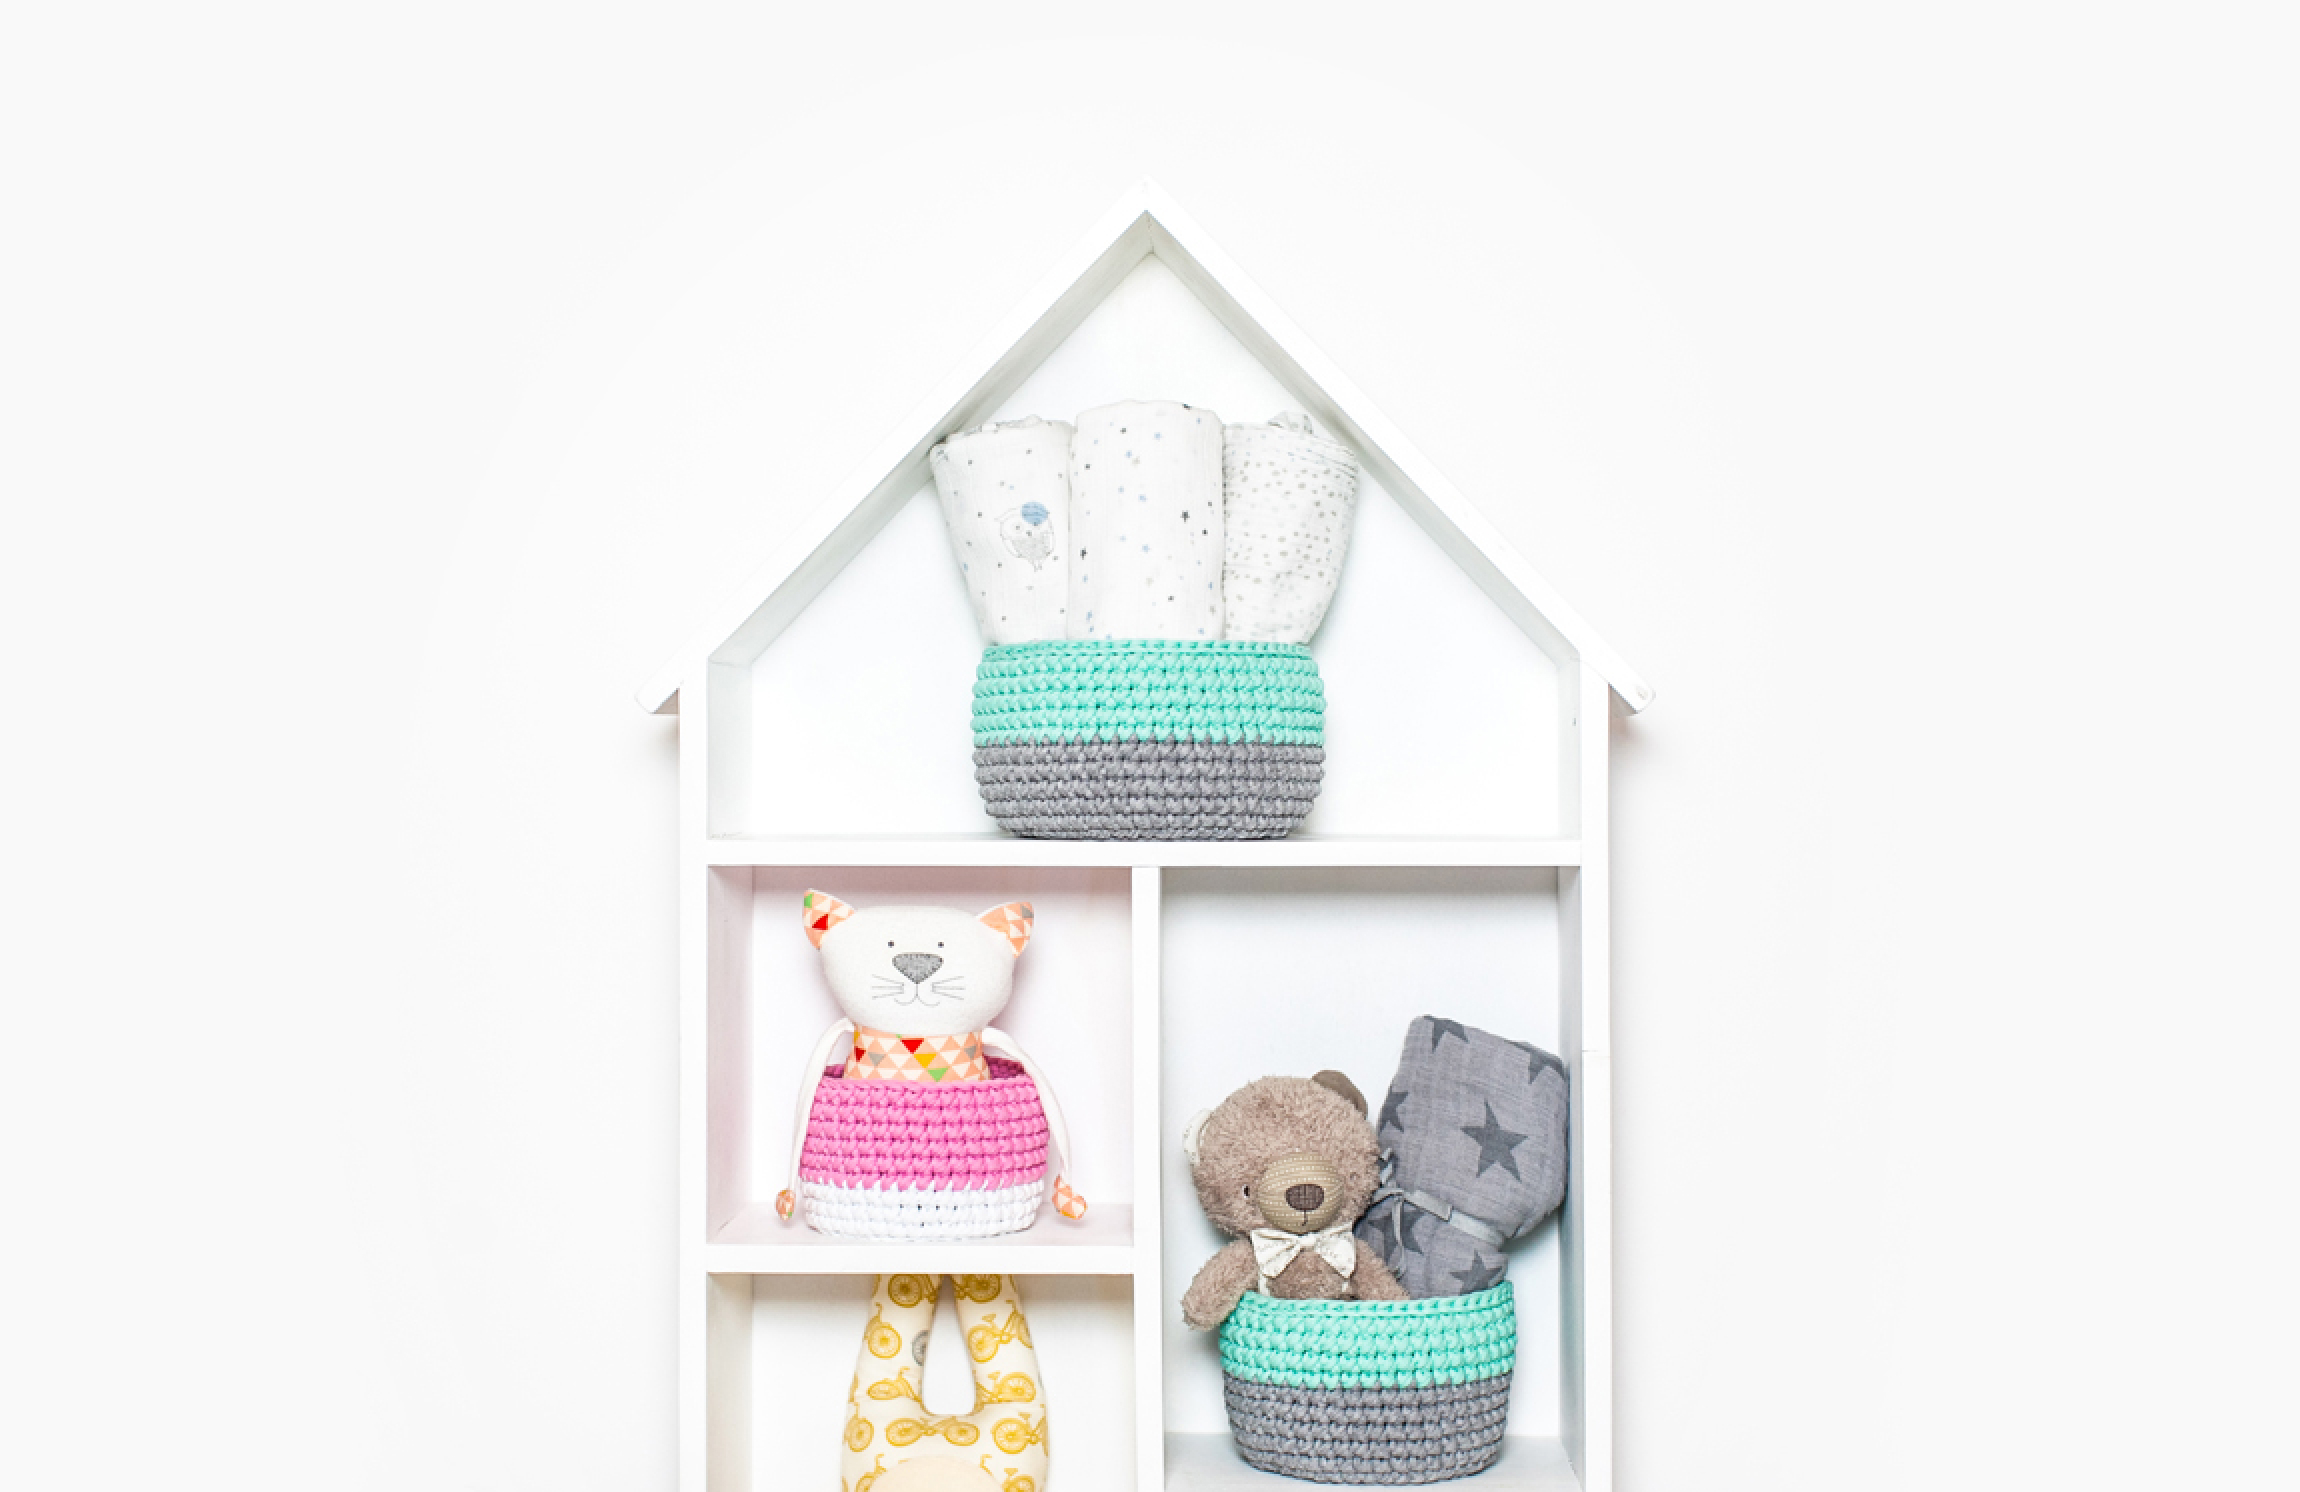
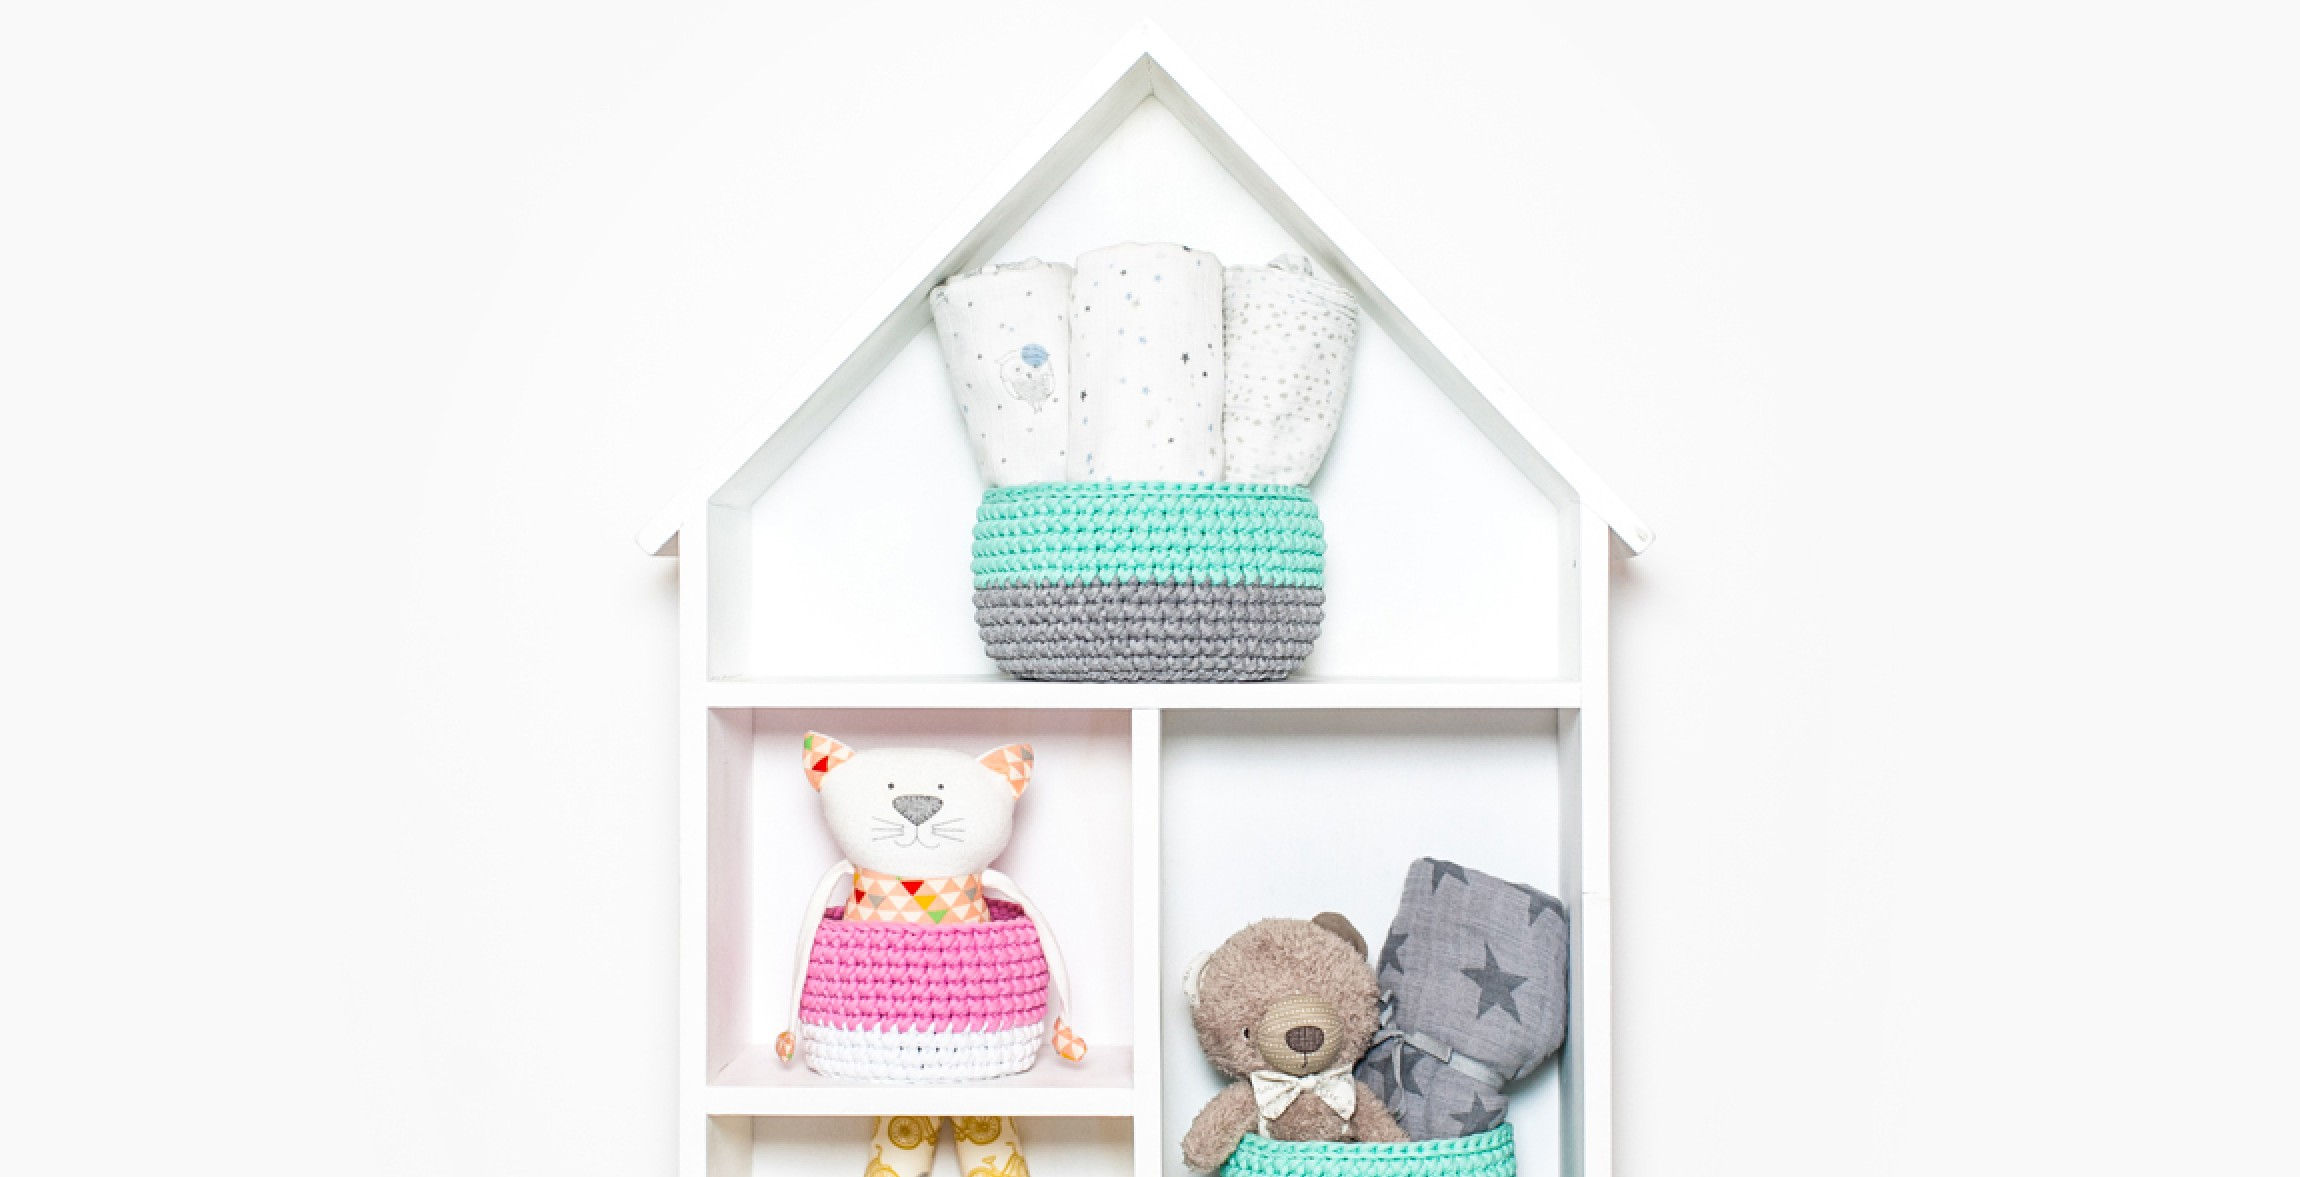
main picture 2x

Changed region(s): [[0.3087, 0.0306, 0.71, 1.0], [0.2778, 0.4588, 0.3087, 0.4894]]

diff --git a/source/index.html b/source/index.html
@@ -70,36 +70,35 @@
       <div class="navigation__additional-info">
         <p>Бесплатная доставка по России</p></div>
     </nav>
-
-    <section class="introduce">
-      <div class="introduce__picture">
-        <h1 class="introduce__slogan">Милые штуки <br> ручной <br> работы для дома</h1>
-      </div>
-    </section>
-    <section class="additional-menu">
-      <div class="additional-menu__wrapper">
-        <a class="link" href="catalog.html">
-          <div class="additional-menu__interior">
-            <span class="additional-menu__interior-text">Предметы интерьера</span>
-            <svg width="40" height="62" class="additional-menu__icon--padding">
-              <use xlink:href="img/sprite.svg#interior"></use>
-            </svg>
-          </div>
-        </a>
-        <a class="link" href="catalog.html">
-          <div class="additional-menu__toys">
-            <span class="additional-menu__toy-text">Детские игрушки</span>
-            <svg width="60" height="60" class="additional-menu__icon--padding">
-              <use xlink:href="img/sprite.svg#toy-icon"></use>
-            </svg>
-          </div>
-        </a>
-      </div>
-      <div class="zig-zag--index"></div>
-    </section>
   </div>
 </header>
 <main>
+  <section class="introduce">
+    <div class="introduce__picture">
+      <h1 class="introduce__slogan">Милые штуки <br> ручной <br> работы для дома</h1>
+    </div>
+  </section>
+  <section class="additional-menu">
+    <div class="additional-menu__wrapper">
+      <a class="link" href="catalog.html">
+        <div class="additional-menu__interior">
+          <span class="additional-menu__interior-text">Предметы интерьера</span>
+          <svg width="40" height="62" class="additional-menu__icon--padding">
+            <use xlink:href="img/sprite.svg#interior"></use>
+          </svg>
+        </div>
+      </a>
+      <a class="link" href="catalog.html">
+        <div class="additional-menu__toys">
+          <span class="additional-menu__toy-text">Детские игрушки</span>
+          <svg width="60" height="60" class="additional-menu__icon--padding">
+            <use xlink:href="img/sprite.svg#toy-icon"></use>
+          </svg>
+        </div>
+      </a>
+    </div>
+    <div class="zig-zag--index"></div>
+  </section>
   <section class="week-product">
     <div class="wrapper">
       <div class="week-product--wrapper">
@@ -140,7 +139,8 @@
 
             <source srcset="img/mobile/triple-set-mobile.webp 1x, img/mobile/triple-set-mobile@2x.webp 2x"
                     type="image/webp">
-            <img src="img/mobile/triple-set-mobile.jpg" srcset="img/mobile/triple-set-mobile@2x.jpg 2x" alt="Вязанные корзинки">
+            <img src="img/mobile/triple-set-mobile.jpg" srcset="img/mobile/triple-set-mobile@2x.jpg 2x"
+                 alt="Вязанные корзинки">
           </picture>
         </div>
         <div class="week-product__order">

diff --git a/source/less/blocks/introduce.less b/source/less/blocks/introduce.less
@@ -45,13 +45,13 @@
     display: flex;
     justify-content: center;
     align-items: flex-start;
-    background: url("../../img/tablet/hero-tablet.jpg") no-repeat center 55px;
+    background: url("../../img/tablet/hero-tablet.jpg") no-repeat center 78px;
     width: 100%;
     height: 620px;
 
     @media (min-resolution: 2dppx) {
-      background: url("../../img/tablet/hero-tablet@x2.jpg") no-repeat center;
-      background-size: 1150px 746px;
+      background: url("../../img/tablet/hero-tablet@x2.jpg") no-repeat center 75px;
+      background-size: 1150px 575px;
     }
   }
 
@@ -87,8 +87,8 @@
     background: url("../../img/desktop/hero-desktop.jpg") no-repeat center 70px;
 
     @media (min-resolution: 2dppx) {
-      background: url("../../img/desktop/hero-desktop@x2.jpg") no-repeat center;
-      background-size: 1150px 746px;
+      background: url("../../img/desktop/hero-desktop@x2.jpg") no-repeat center 65px;
+      background-size: 1150px 590px;
     }
   }
 

diff --git a/source/less/blocks/nav.less b/source/less/blocks/nav.less
@@ -174,6 +174,7 @@
     font-size: 15px;
     line-height: 24px;
     padding-top: 5px;
+    min-width: 160px;
   }
 
   .bottom-menu__item--padding {
